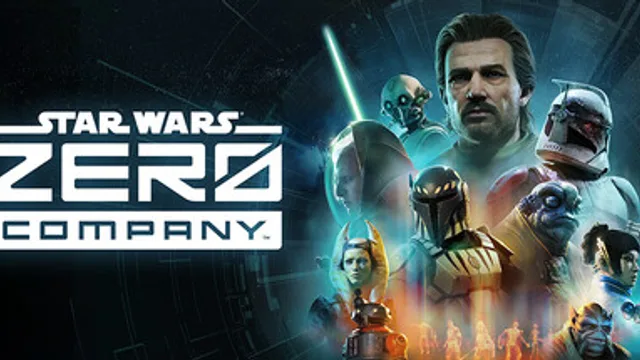
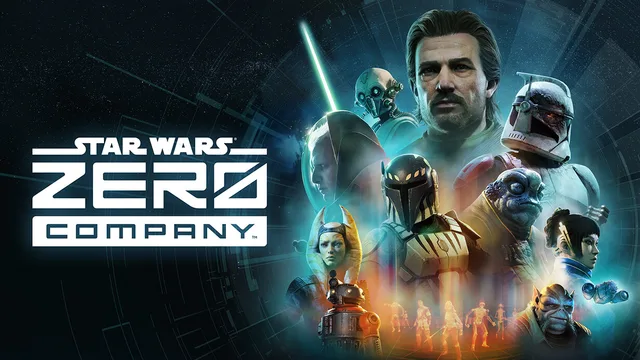
Add done view fields and 6 finished games; full-res Steam covers
- completed (YYYY-MM-DD) and rating (1-10) on items; the done view groups
  by month finished, newest first, and shows the score instead of hype.
- scripts/cover.mjs accepts steam:<appid> and pulls the 1232x706 store
  capsule via Steam's public store-browse API; all Steam covers regenerated.
- CLAUDE.md: steam workflow, and upscaling/letterboxing are acceptable.

Agentic - Using Claude Fable 5.1

diff --git a/src/render.ts b/src/render.ts
@@ -15,6 +15,7 @@ export const esc = (s: unknown): string => String(s)
 
 const VIEW_LABELS: Record<View, string> = { upcoming: "upcoming", backlog: "backlog", done: "done" };
 const SORT_LABELS: Record<Query["sort"], string> = { date: "date", title: "title", added: "recently added", hype: "hype" };
+const SORT_LABELS_DONE: Record<Query["sort"], string> = { ...SORT_LABELS, date: "finished", hype: "rating" };
 
 export function renderViews(q: Query, counts: Record<View, number>): string {
 	return VIEWS.map((v) => `
@@ -54,7 +55,7 @@ export function renderToolbar(q: Query, presentTypes: Set<ItemType>): string {
 			<div class="sort">
 				<span class="control-label">sort</span>
 				<select id="sort" aria-label="sort by">
-					${SORTS.map((s) => `<option value="${s}"${s === q.sort ? " selected" : ""}>${SORT_LABELS[s]}</option>`).join("")}
+					${SORTS.map((s) => `<option value="${s}"${s === q.sort ? " selected" : ""}>${(q.view === "done" ? SORT_LABELS_DONE : SORT_LABELS)[s]}</option>`).join("")}
 				</select>
 				<button class="reverse" data-reverse aria-pressed="${q.desc}" title="reverse order">${q.desc ? "&#x2191;" : "&#x2193;"}</button>
 			</div>
@@ -67,7 +68,11 @@ function renderCover(e: Entry): string {
 	return `<div class="cover"><img src="${esc(item.cover)}" alt="" loading="lazy" decoding="async" width="640" height="360"></div>`;
 }
 
-function renderWhen(e: Entry, today: number): string {
+function renderWhen(e: Entry, today: number, view: View): string {
+	if (view === "done" && e.done) {
+		const rel = relativeLabel(e.done, today);
+		return `<span class="entry-when"><span class="when-label">${e.status === "dropped" ? "dropped" : "finished"}</span><time datetime="${esc(e.done.raw)}">${esc(e.done.label)}</time>${rel ? `<span class="rel is-past">${esc(rel)}</span>` : ""}</span>`;
+	}
 	const rel = relativeLabel(e.date, today);
 	const days = (e.date.start - today) / DAY_MS;
 	const cls = e.date.precision === "day" && days >= 0 && days <= SOON_DAYS ? " is-soon" : e.status !== "upcoming" ? " is-past" : "";
@@ -83,19 +88,21 @@ function renderMeta(e: Entry): string {
 	const type = item.type !== "game" ? `<span class="type-chip">${esc(item.type)}</span>` : "";
 	const status = item.status ? `<span class="type-chip">${esc(item.status)}</span>` : "";
 	const hype = item.hype ? `<span class="hype" title="hype ${item.hype}/3">${"★".repeat(item.hype)}<span class="off">${"★".repeat(3 - item.hype)}</span></span>` : "";
-	return `<div class="entry-meta">${plats}${type}${status}${hype}</div>`;
+	const rating = item.rating !== undefined ? `<span class="rating" title="my score">${item.rating}<span class="off">/10</span></span>` : "";
+	return `<div class="entry-meta">${plats}${type}${status}${rating || hype}</div>`;
 }
 
-function renderFoot(e: Entry): string {
+function renderFoot(e: Entry, view: View): string {
 	const { item } = e;
+	const released = view === "done" && e.done ? `<span>released ${esc(e.date.label)}</span>` : "";
 	const credits = [item.developer, item.publisher && item.publisher !== item.developer ? item.publisher : ""].filter(Boolean).map(esc).join(" / ");
 	const tags = (item.tags ?? []).map((t) => `<span class="tag">${esc(t)}</span>`).join("");
 	const links = (item.links ?? []).map((l) => `<a href="${esc(l.url)}" target="_blank" rel="noopener">${esc(l.label)}</a>`).join("");
-	if (!credits && !tags && !links) return "";
-	return `<div class="entry-foot">${credits ? `<span>${credits}</span>` : ""}${tags}${links ? `<span class="links">${links}</span>` : ""}</div>`;
+	if (!credits && !tags && !links && !released) return "";
+	return `<div class="entry-foot">${released}${credits ? `<span>${credits}</span>` : ""}${tags}${links ? `<span class="links">${links}</span>` : ""}</div>`;
 }
 
-export function renderEntry(e: Entry, today: number): string {
+export function renderEntry(e: Entry, today: number, view: View = "upcoming"): string {
 	const { item } = e;
 	const days = (e.date.start - today) / DAY_MS;
 	const soon = e.date.precision === "day" && days >= 0 && days <= SOON_DAYS;
@@ -107,12 +114,12 @@ export function renderEntry(e: Entry, today: number): string {
 			<div class="entry-body">
 				<div class="entry-head">
 					<h3 class="entry-title">${title}</h3>
-					${renderWhen(e, today)}
+					${renderWhen(e, today, view)}
 				</div>
 				${renderMeta(e)}
 				<p class="entry-desc">${esc(item.description)}</p>
 				${item.notes ? `<p class="entry-notes">${esc(item.notes)}</p>` : ""}
-				${renderFoot(e)}
+				${renderFoot(e, view)}
 			</div>
 		</article>`;
 }
@@ -124,6 +131,6 @@ export function renderGroups(groups: Group[], q: Query, today: number): string {
 	return groups.map((g) => `
 		<section class="group">
 			${g.label ? `<h2 class="group-head"><span class="hash">##</span><span class="label">${esc(g.label)}</span><span class="rule"></span><span class="count">${g.entries.length}</span></h2>` : ""}
-			<div class="entries">${g.entries.map((e) => renderEntry(e, today)).join("")}</div>
+			<div class="entries">${g.entries.map((e) => renderEntry(e, today, q.view)).join("")}</div>
 		</section>`).join("");
 }

diff --git a/src/filters.ts b/src/filters.ts
@@ -8,6 +8,8 @@ import { PLATFORMS, SORTS, VIEWS, ITEM_TYPES, type Item, type Platform, type Que
 export interface Entry {
 	item: Item;
 	date: ReleaseDate;
+	/** Parsed `completed`, when present. */
+	done?: ReleaseDate;
 	status: Status;
 }
 
@@ -25,7 +27,8 @@ export function deriveStatus(item: Item, date: ReleaseDate, today: number): Stat
 export function toEntries(items: Item[], today: number): Entry[] {
 	return items.map((item) => {
 		const date = parseDate(item.date);
-		return { item, date, status: deriveStatus(item, date, today) };
+		const done = item.completed ? parseDate(item.completed) : undefined;
+		return { item, date, done, status: deriveStatus(item, date, today) };
 	});
 }
 
@@ -60,37 +63,54 @@ export function matches(e: Entry, q: Query): boolean {
 
 const collator = new Intl.Collator("en", { sensitivity: "base", numeric: true });
 
-function compare(a: Entry, b: Entry, sort: Sort): number {
+/**
+ * The date a view cares about: the done view sorts and groups by when I
+ * finished something; everything else uses the release date.
+ */
+export function keyDate(e: Entry, view: View): ReleaseDate {
+	return view === "done" && e.done ? e.done : e.date;
+}
+
+/** The done view ranks by my rating; before that, by hype. */
+function score(e: Entry, view: View): number {
+	return (view === "done" ? e.item.rating ?? e.item.hype : e.item.hype) ?? 0;
+}
+
+function compare(a: Entry, b: Entry, sort: Sort, view: View): number {
+	// Done reads newest-first: the most recently finished thing on top.
+	const byDate = () => (sortKey(keyDate(a, view)) - sortKey(keyDate(b, view))) * (view === "done" ? -1 : 1);
 	switch (sort) {
-		case "date": return sortKey(a.date) - sortKey(b.date) || collator.compare(a.item.title, b.item.title);
+		case "date": return byDate() || collator.compare(a.item.title, b.item.title);
 		case "title": return collator.compare(a.item.title, b.item.title);
-		case "added": return b.item.added.localeCompare(a.item.added) || sortKey(a.date) - sortKey(b.date);
-		case "hype": return (b.item.hype ?? 0) - (a.item.hype ?? 0) || sortKey(a.date) - sortKey(b.date);
+		case "added": return b.item.added.localeCompare(a.item.added) || byDate();
+		case "hype": return score(b, view) - score(a, view) || byDate();
 	}
 }
 
-export function sortEntries(entries: Entry[], sort: Sort, desc = false): Entry[] {
-	const sorted = [...entries].sort((a, b) => compare(a, b, sort));
+export function sortEntries(entries: Entry[], sort: Sort, desc = false, view: View = "upcoming"): Entry[] {
+	const sorted = [...entries].sort((a, b) => compare(a, b, sort, view));
 	return desc ? sorted.reverse() : sorted;
 }
 
 /**
- * Bucket sorted entries under headings. Date sort groups by release window
- * (month / quarter / year / TBA); other sorts get a single unlabelled group.
+ * Bucket sorted entries under headings. Date sort groups by window (month /
+ * quarter / year / TBA) of the view's key date; other sorts get a single
+ * unlabelled group.
  */
-export function groupEntries(entries: Entry[], sort: Sort): Group[] {
+export function groupEntries(entries: Entry[], sort: Sort, view: View = "upcoming"): Group[] {
 	if (sort !== "date") return entries.length ? [{ key: "all", label: "", entries }] : [];
 	const groups: Group[] = [];
 	for (const e of entries) {
+		const d = keyDate(e, view);
 		const last = groups[groups.length - 1];
-		if (last && last.key === e.date.groupKey) last.entries.push(e);
-		else groups.push({ key: e.date.groupKey, label: e.date.groupLabel, entries: [e] });
+		if (last && last.key === d.groupKey) last.entries.push(e);
+		else groups.push({ key: d.groupKey, label: d.groupLabel, entries: [e] });
 	}
 	return groups;
 }
 
 export function runQuery(entries: Entry[], q: Query): Group[] {
-	return groupEntries(sortEntries(entries.filter((e) => matches(e, q)), q.sort, q.desc), q.sort);
+	return groupEntries(sortEntries(entries.filter((e) => matches(e, q)), q.sort, q.desc, q.view), q.sort, q.view);
 }
 
 /* ---------- Query <-> URL search params ---------- */

diff --git a/src/filters.test.ts b/src/filters.test.ts
@@ -13,7 +13,9 @@ const items: Item[] = [
 	mk({ id: "a-later", title: "alpha", date: "2026-11-05", added: "2026-09-10", hype: 1 }),
 	mk({ id: "c-month", title: "Charlie", date: "2026-09", tags: ["roguelike"] }),
 	mk({ id: "old", title: "Old", date: "2026-01-01" }),
-	mk({ id: "beaten", title: "Beaten", date: "2025-06-01", status: "completed" }),
+	mk({ id: "beaten", title: "Beaten", date: "2025-06-01", status: "completed", completed: "2026-07-13", rating: 7 }),
+	mk({ id: "beaten-later", title: "Beaten later", date: "2024-01-01", status: "completed", completed: "2026-09-06", rating: 9 }),
+	mk({ id: "quit", title: "Quit", date: "2024-01-01", status: "dropped", completed: "2026-08-01", rating: 3 }),
 	mk({ id: "show", title: "Show", type: "tv", date: "2027-Q1" }),
 	mk({ id: "someday", title: "Someday", date: "TBA" }),
 ];
@@ -25,10 +27,10 @@ describe("views", () => {
 	it("derives status from date unless overridden", () => {
 		expect(entries.map((e) => [e.item.id, e.status])).toEqual([
 			["b-soon", "upcoming"], ["a-later", "upcoming"], ["c-month", "upcoming"], ["old", "released"],
-			["beaten", "completed"], ["show", "upcoming"], ["someday", "upcoming"],
+			["beaten", "completed"], ["beaten-later", "completed"], ["quit", "dropped"], ["show", "upcoming"], ["someday", "upcoming"],
 		]);
 		expect(viewOf(entries[3])).toBe("backlog");
-		expect(countByView(entries)).toEqual({ upcoming: 5, backlog: 1, done: 1 });
+		expect(countByView(entries)).toEqual({ upcoming: 5, backlog: 1, done: 3 });
 	});
 });
 
@@ -60,7 +62,16 @@ describe("runQuery", () => {
 	});
 	it("switches views", () => {
 		expect(ids(q({ view: "backlog" }))).toEqual(["old"]);
-		expect(ids(q({ view: "done" }))).toEqual(["beaten"]);
+	});
+	it("done view sorts and groups by completed date, newest first, and ranks by rating", () => {
+		const groups = runQuery(entries, q({ view: "done" }));
+		expect(groups.map((g) => [g.label, g.entries.map((e) => e.item.id)])).toEqual([
+			["September 2026", ["beaten-later"]],
+			["August 2026", ["quit"]],
+			["July 2026", ["beaten"]],
+		]);
+		expect(ids(q({ view: "done", desc: true }))).toEqual(["beaten", "quit", "beaten-later"]);
+		expect(ids(q({ view: "done", sort: "hype" }))).toEqual(["beaten-later", "beaten", "quit"]);
 	});
 });
 

diff --git a/src/render.test.ts b/src/render.test.ts
@@ -28,6 +28,16 @@ describe("renderGroups", () => {
 		expect(b.querySelector(".plat.is-pc")).not.toBeNull();
 		expect(b.querySelector(".rel")).toBeNull();
 	});
+	it("done view shows finish date, rating and release date", () => {
+		const done: Item[] = [{ id: "d", type: "game", title: "D", date: "2025-02-18", platforms: ["PC"], description: "x", cover: null, added: "2026-09-12", status: "completed", completed: "2026-09-06", rating: 8, hype: 3 }];
+		const qd = { ...DEFAULT_QUERY, view: "done" as const };
+		document.body.innerHTML = renderGroups(runQuery(toEntries(done, T), qd), qd, T);
+		expect(document.querySelector(".group-head .label")!.textContent).toBe("September 2026");
+		expect(document.querySelector(".entry-when")!.textContent).toBe("finishedSep 6, 20266d ago");
+		expect(document.querySelector(".rating")!.textContent).toBe("8/10");
+		expect(document.querySelector(".hype")).toBeNull();
+		expect(document.querySelector(".entry-foot")!.textContent).toContain("released Feb 18, 2025");
+	});
 	it("renders an empty state", () => {
 		document.body.innerHTML = renderGroups([], { ...DEFAULT_QUERY, view: "done" }, T);
 		expect(document.querySelector(".empty")!.textContent).toContain("nothing here");

diff --git a/src/validate.ts b/src/validate.ts
@@ -66,6 +66,15 @@ export function validateItems(data: unknown): string[] {
 		if (raw.hype !== undefined && ![1, 2, 3].includes(raw.hype as number)) err("hype must be 1, 2 or 3");
 		if (typeof raw.added !== "string" || !DAY_RE.test(raw.added)) err("added must be YYYY-MM-DD");
 		if (raw.status !== undefined && !MANUAL_STATUSES.includes(raw.status as never)) err(`status must be one of ${MANUAL_STATUSES.join(", ")} (or omitted)`);
+		if (raw.completed !== undefined) {
+			if (typeof raw.completed !== "string" || !DAY_RE.test(raw.completed)) err("completed must be YYYY-MM-DD");
+			if (raw.status !== "completed" && raw.status !== "dropped") err("completed requires status \"completed\" or \"dropped\"");
+		}
+		if (raw.status === "completed" && raw.completed === undefined) err("status \"completed\" needs a completed date");
+		if (raw.rating !== undefined) {
+			if (!Number.isInteger(raw.rating) || (raw.rating as number) < 1 || (raw.rating as number) > 10) err("rating must be an integer 1–10");
+			if (raw.status === undefined) err("rating only makes sense once status is playing/completed/dropped (use hype before then)");
+		}
 	});
 	return errors;
 }

diff --git a/src/style.css b/src/style.css
@@ -268,6 +268,9 @@ button.chip[aria-pressed="true"] { border-color: var(--cyan); color: var(--fg-br
 .type-chip { font-size: 11px; color: var(--cyan); }
 .hype { color: var(--amber); font-size: 12px; letter-spacing: 1px; margin-left: auto; }
 .hype .off { color: var(--fg-faint); }
+.rating { color: var(--amber); font-size: 12.5px; font-weight: 700; margin-left: auto; }
+.rating .off { color: var(--fg-faint); font-weight: 400; font-size: 11px; }
+.entry-when .when-label { color: var(--fg-faint); font-size: 11px; }
 
 .entry-desc { margin: 0; color: var(--fg-mute); line-height: 1.6; font-size: 12.5px; }
 .entry-notes { margin: 0; color: var(--fg-dim); font-size: 12px; line-height: 1.6; font-style: italic; }
@@ -311,7 +314,7 @@ button.chip[aria-pressed="true"] { border-color: var(--cyan); color: var(--fg-br
 	.container { padding: 0 16px; }
 	.entry { grid-template-columns: 1fr; gap: 12px; padding: 12px; }
 	.entry-when { margin-left: 0; width: 100%; }
-	.hype { margin-left: 0; }
+	.hype, .rating { margin-left: 0; }
 	.search { min-width: 100%; }
 }
 @media (min-width: 641px) and (max-width: 820px) {

diff --git a/src/data.test.ts b/src/data.test.ts
@@ -43,4 +43,11 @@ describe("validateItems", () => {
 		expect(x.some((e) => e.includes("cover must be"))).toBe(true);
 		expect(x.some((e) => e.includes("status must be"))).toBe(true);
 	});
+	it("ties completed and rating to status", () => {
+		expect(validateItems([{ ...good, status: "completed" }])).toEqual(['item "ok": status "completed" needs a completed date']);
+		expect(validateItems([{ ...good, completed: "2026-06-06" }])).toEqual(['item "ok": completed requires status "completed" or "dropped"']);
+		expect(validateItems([{ ...good, rating: 8 }])[0]).toContain("rating only makes sense");
+		expect(validateItems([{ ...good, status: "playing", rating: 11 }])[0]).toContain("rating must be");
+		expect(validateItems([{ ...good, status: "completed", completed: "2026-06-06", rating: 9 }])).toEqual([]);
+	});
 });

diff --git a/src/types.ts b/src/types.ts
@@ -62,6 +62,10 @@ export interface Item {
 	added: string;
 	/** Manual override; see Status. */
 	status?: ManualStatus;
+	/** ISO day I finished (or dropped) it. Drives sorting/grouping in the done view. */
+	completed?: string;
+	/** My score after playing, 1–10. Shown instead of hype once it's done. */
+	rating?: number;
 }
 
 /** The three top-level views. */

diff --git a/CLAUDE.md b/CLAUDE.md
@@ -21,10 +21,18 @@ Everything is data-driven; you should not need to touch `src/` to add an entry.
    - Steam: `https://shared.fastly.steamstatic.com/store_item_assets/steam/apps/<appid>/<hash>/header.jpg` (from the store page og:image) — only 460px wide, acceptable but soft.
    - Publisher press kits / official site key art (best).
    - Wikipedia infobox art via `https://en.wikipedia.org/wiki/Special:FilePath/<File name>` (low-res, last resort). Send a User-Agent header when curling Wikipedia.
-3. **Generate the cover:** `npm run cover -- <id> <url-or-local-file>` → `public/covers/<id>.webp`.
-   Use `--fit contain` for portrait box art (letterboxes instead of cropping heads off) or
-   `--position top|attention` to steer the crop. If no art is findable, set `"cover": null`
-   and the card shows a placeholder; fix it up later.
+3. **Generate the cover:** `npm run cover -- <id> <source>` → `public/covers/<id>.webp`.
+   - **Steam games:** `npm run cover -- <id> steam:<appid>` is the default path. It pulls the
+     1232×706 store capsule through Steam's public store-browse API, no key needed. Find the
+     appid with `curl 'https://store.steampowered.com/api/storesearch/?term=<name>&cc=us&l=en'`
+     (also handy: `api/appdetails?appids=<id>` for release date, credits and blurb).
+   - Otherwise pass a URL or local file. `--fit contain` letterboxes instead of cropping
+     (use it when a crop would clip the title/logo); `--position top|attention` steers the crop.
+   - **Accepted imperfections, no need to ask:** upscaling from a smaller source (Steam's
+     460px `header.jpg`, Nintendo 1200px art, etc.) and letterboxing on the dark background
+     are both fine. Just mention it in your report, e.g. "cover upscaled from Steam 460px
+     header" or "letterboxed to keep the logo". The script prints a warning when it upscales.
+   - If no art is findable, set `"cover": null` (placeholder card) and say so.
 4. **Append the entry** to `data/items.json`. Schema is in `src/types.ts` (with comments) and
    README. Rules the validator enforces:
    - `id` kebab-case and unique; `type` ∈ game/tv/movie/event/other.
@@ -35,6 +43,10 @@ Everything is data-driven; you should not need to touch `src/` to add an entry.
    - `cover` is `null` or `/covers/<id>.webp` and the file must exist.
    - `added` is today's date `YYYY-MM-DD`. `hype` is 1–3 (default to 2 unless told).
    - `status` only when Jeff says so: `playing` | `completed` | `dropped`.
+   - Finished games: set `status: "completed"` (or `"dropped"`), `completed: "YYYY-MM-DD"` (the
+     day he finished; required for completed), and `rating: 1–10` (his score, replaces the hype
+     stars on the card). Leave `hype` off for things added straight to done. The done view sorts
+     and groups by `completed`, newest first.
    Keep the array roughly in date order for readability (the site sorts anyway).
 5. **Verify:** `npm test` (data-integrity test prints exactly what's wrong) and `npm run build`.
 6. **Commit** (`Add <title>`) and push; Netlify deploys on push to `main`.
@@ -49,7 +61,8 @@ game is), and put any hype/caveats in `notes` (rendered as a `//` comment, lower
 - **upcoming**: release window not yet fully passed (or TBA). Default view, grouped by
   month / quarter / year / TBA, firm dates before vague ones.
 - **backlog**: released (derived from date) or `status: "playing"`.
-- **done**: `status: "completed"` or `"dropped"`.
+- **done**: `status: "completed"` or `"dropped"`. Grouped by month *finished* (`completed`),
+  newest first; the "hype" sort becomes "rating" there.
 
 ## Code map
 
@@ -60,7 +73,7 @@ constants from there. House style: tabs, `eslint` clean, tests for pure logic.
 
 ## Future ideas (not built yet)
 
-- Check-off UX for completed items (currently manual `status` edits in JSON).
+- Check-off UX for completed items (currently manual `status`/`completed`/`rating` edits in JSON).
 - Non-game media: the type chips appear automatically once a second type exists.
 - Per-item detail pages / permalinks (`#<id>` already anchors to the card).
 - Countdown / "this week" strip at the top of upcoming.

diff --git a/README.md b/README.md
@@ -25,9 +25,10 @@ npm run preview    # serve the production build locally
 
 1. Append an object to `data/items.json` (schema below; `CLAUDE.md` has the
    agent-facing walkthrough).
-2. Make a cover: `npm run cover -- <id> <image-url-or-file>` writes a fixed
-   640×360 (16:9) webp to `public/covers/<id>.webp`. Add `--fit contain` for
-   portrait art you don't want cropped, or `--position top` etc. to steer the crop.
+2. Make a cover: `npm run cover -- <id> steam:<appid>` (pulls the full-size store
+   capsule, no API key) or `npm run cover -- <id> <image-url-or-file>`. Either writes
+   a fixed 640×360 (16:9) webp to `public/covers/<id>.webp`. Add `--fit contain` for
+   art you don't want cropped, or `--position top` etc. to steer the crop.
 3. `npm test` — the data test fails with a specific message if anything's off.
 4. Commit and push.
 
@@ -50,13 +51,16 @@ npm run preview    # serve the production build locally
   "hype": 3,                           // optional, 1–3
   "notes": "why I'm hyped / caveats",  // optional, shown as a // comment
   "added": "2026-09-12",
-  "status": "completed"                // optional: playing | completed | dropped
+  "status": "completed",               // optional: playing | completed | dropped
+  "completed": "2026-09-06",           // required with status completed/dropped; drives the done view
+  "rating": 8                          // optional, 1–10, my score once played; replaces hype on the card
 }
 ```
 
 Status is derived from the date unless set: an item is **upcoming** until its whole
 release window has passed, then **released** (it moves to the *backlog* view).
-`completed` / `dropped` send it to *done*; `playing` keeps it in *backlog*.
+`completed` / `dropped` send it to *done*, which is grouped by the month it was finished,
+newest first; `playing` keeps it in *backlog*.
 
 ## Structure
 
